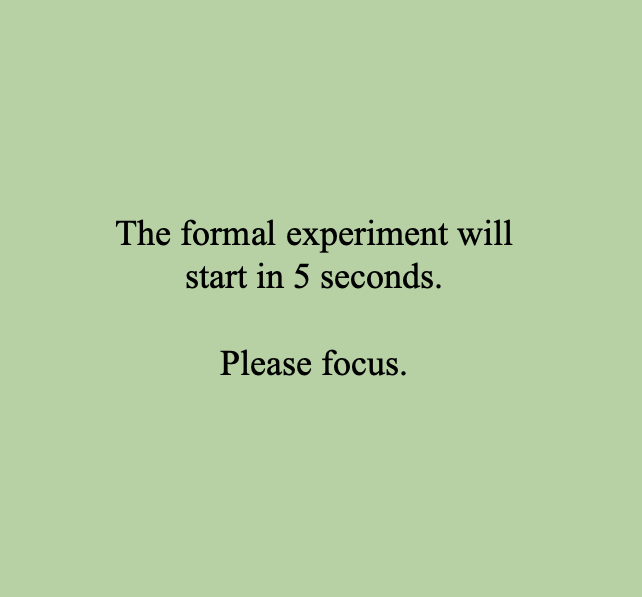
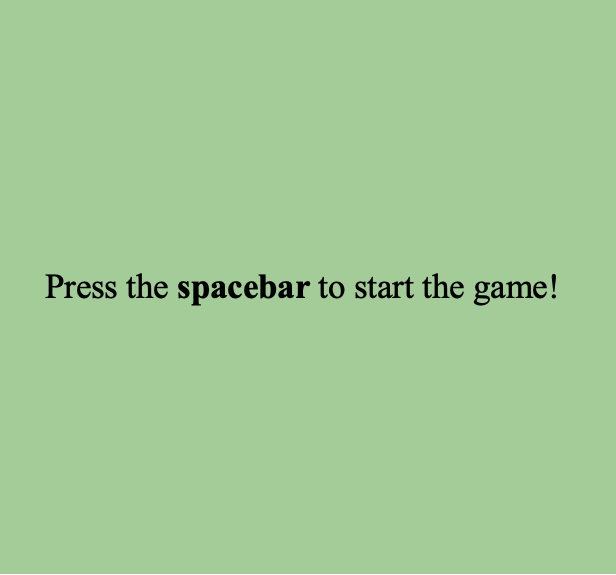
update data record;

Changed region(s): [[0.0617, 0.3548, 0.9253, 0.5322], [0.3393, 0.5617, 0.6169, 0.6504]]

diff --git a/human-AI/src/Trial.py b/human-AI/src/Trial.py
@@ -78,12 +78,12 @@ class NormalTrial1P2G():
         realPlayerGrid = initialPlayerGrid
 
         pause = True
-        initialTime = time.get_ticks()
         while pause:
+            initialTime = time.get_ticks()
             aimPlayerGrid, aimAction = self.controller(realPlayerGrid)
             reactionTime.append(time.get_ticks() - initialTime)
-            stepCount = stepCount + 1
 
+            stepCount = stepCount + 1
             goal = inferGoal(trajectory[-1], aimPlayerGrid, bean1Grid, bean2Grid)
             noisePlayerGrid, aimAction, ifnoise = self.normalNoise(trajectory[-1], aimAction, trajectory, noiseStep, stepCount)
             realPlayerGrid = self.checkBoundary(noisePlayerGrid)
@@ -94,7 +94,7 @@ class NormalTrial1P2G():
                 pg.image.save(screen, self.saveImageDir + '/' + str(len(filenameList)) + '.png')
 
             goalList.append(goal)
-            trajectory.append(list(realPlayerGrid))
+            trajectory.append(tuple(realPlayerGrid))
             aimActionList.append(aimAction)
 
             pause = checkTerminationOfTrial(bean1Grid, bean2Grid, realPlayerGrid)
@@ -106,12 +106,6 @@ class NormalTrial1P2G():
             filenameList = os.listdir(self.saveImageDir)
             pg.image.save(screen, self.saveImageDir + '/' + str(len(filenameList)) + '.png')
 
-        results["bean1GridX"] = bean1Grid[0]
-        results["bean1GridY"] = bean1Grid[1]
-        results["bean2GridX"] = bean2Grid[0]
-        results["bean2GridY"] = bean2Grid[1]
-        results["playerGridX"] = initialPlayerGrid[0]
-        results["playerGridY"] = initialPlayerGrid[1]
         results["reactionTime"] = str(reactionTime)
         results["trajectory"] = str(trajectory)
         results["aimAction"] = str(aimActionList)
@@ -119,7 +113,7 @@ class NormalTrial1P2G():
         results["goal"] = str(goalList)
         return results
 
-class SpecialTrial():
+class SpecialTrial1P2G():
     def __init__(self, controller, drawNewState, drawText, awayFromTheGoalNoise, checkBoundary, saveImageDir=None):
         self.controller = controller
         self.drawNewState = drawNewState
@@ -150,8 +144,8 @@ class SpecialTrial():
 
         realPlayerGrid = initialPlayerGrid
         pause = True
-        initialTime = time.get_ticks()
         while pause:
+            initialTime = time.get_ticks()
             aimPlayerGrid, aimAction = self.controller(realPlayerGrid)
             reactionTime.append(time.get_ticks() - initialTime)
 
@@ -167,8 +161,7 @@ class SpecialTrial():
             if self.saveImageDir:
                 filenameList = os.listdir(self.saveImageDir)
                 pg.image.save(screen, self.saveImageDir + '/' + str(len(filenameList)) + '.png')
-
-            trajectory.append(list(realPlayerGrid))
+            trajectory.append(tuple(realPlayerGrid))
             aimActionList.append(aimAction)
             goalList.append(goal)
 
@@ -180,12 +173,6 @@ class SpecialTrial():
             pg.image.save(screen, self.saveImageDir + '/' + str(len(filenameList)) + '.png')
 
         pg.event.set_blocked([pg.KEYDOWN, pg.KEYUP])
-        results["bean1GridX"] = bean1Grid[0]
-        results["bean1GridY"] = bean1Grid[1]
-        results["bean2GridX"] = bean2Grid[0]
-        results["bean2GridY"] = bean2Grid[1]
-        results["playerGridX"] = initialPlayerGrid[0]
-        results["playerGridY"] = initialPlayerGrid[1]
         results["reactionTime"] = str(reactionTime)
         results["trajectory"] = str(trajectory)
         results["aimAction"] = str(aimActionList)
@@ -348,14 +335,6 @@ class SpecialTrialHumanAI():
             pause = checkTerminationOfTrial(bean1Grid, bean2Grid, realPlayer1Grid, realPlayer2Grid)
         pg.time.wait(500)
         pg.event.set_blocked([pg.KEYDOWN, pg.KEYUP])
-        results["bean1GridX"] = bean1Grid[0]
-        results["bean1GridY"] = bean1Grid[1]
-        results["bean2GridX"] = bean2Grid[0]
-        results["bean2GridY"] = bean2Grid[1]
-        results["player1GridX"] = initialPlayer1Grid[0]
-        results["player1GridY"] = initialPlayer1Grid[1]
-        results["player2GridX"] = initialPlayer2Grid[0]
-        results["player2GridY"] = initialPlayer2Grid[1]
         results["reactionTime"] = str(reactionTime)
         results["trajectoryPlayer1"] = str(trajectoryPlayer1)
         results["trajectoryPlayer2"] = str(trajectoryPlayer2)
@@ -403,20 +382,14 @@ class PracTrial():
         pause = True
         while pause:
             initialTime = time.get_ticks()
-
             aimPlayer1Grid, aimAction = self.controller(realPlayer1Grid)
             reactionTime.append(time.get_ticks() - initialTime)
 
             aimActionListPlayer1.append(aimAction)
-
             stepCount = stepCount + 1
-
             realPlayer1Grid = self.checkBoundary(aimPlayer1Grid)
-
             self.drawNewState(bean1Grid, realPlayer1Grid)
-
             trajectoryPlayer1.append(list(realPlayer1Grid))
-
             pause = checkTerminationOfPracTrial(bean1Grid, realPlayer1Grid)
 
         pg.time.wait(500)
@@ -433,12 +406,13 @@ class PracTrial():
 
 
 class PracTrialFreePlay():
-    def __init__(self, normalNoise, controller, drawNewState, drawText, checkBoundary):
+    def __init__(self, normalNoise, controller, drawNewState, drawText, checkBoundary, playTime):
         self.normalNoise = normalNoise
         self.controller = controller
         self.drawNewState = drawNewState
         self.drawText = drawText
         self.checkBoundary = checkBoundary
+        self.playTime = playTime
 
 
     def __call__(self, player1Grid, bean1Grid):
@@ -450,19 +424,16 @@ class PracTrialFreePlay():
         aimActionListPlayer1 = list()
         trajectoryPlayer1 = [initialPlayer1Grid]
 
-        self.drawText("+", [0, 0, 0], [7, 7])
-        pg.time.wait(1300)
+        # self.drawText("+", [0, 0, 0], [7, 7])
+        # pg.time.wait(1300)
         self.drawNewState([], initialPlayer1Grid)
         pg.event.set_allowed([pg.KEYDOWN, pg.KEYUP, pg.QUIT])
 
         realPlayerGrid = initialPlayer1Grid
         trajectory = []
 
-        noiseSteps = [random.randint(i-10, i-1) for i in range(10, 201, 10)]
-        print(noiseSteps)
-
         initialTime = time.get_ticks()
-        while time.get_ticks() - initialTime < 30000:
+        while time.get_ticks() - initialTime < self.playTime:
 
             aimPlayer1Grid, aimAction = self.controller(realPlayerGrid)
             noisePlayerGrid, aimAction, ifnoise = self.normalNoise(realPlayerGrid, aimAction, trajectory, noiseSteps, stepCount)
@@ -473,7 +444,6 @@ class PracTrialFreePlay():
             aimActionListPlayer1.append(aimAction)
             stepCount = stepCount + 1
             self.drawNewState([], realPlayerGrid)
-
 
         pg.time.wait(500)
         pg.event.set_blocked([pg.KEYDOWN, pg.KEYUP])

diff --git a/human-AI/exec/3-runExpWithBumps.py b/human-AI/exec/3-runExpWithBumps.py
@@ -9,19 +9,19 @@ from itertools import permutations
 import sys
 sys.path.append(os.path.join(os.path.join(os.path.dirname(__file__), '..')))
 
-from src.Visualization import DrawBackground, DrawNewState1P2G, DrawImage, DrawText
+from src.Visualization import DrawBackground, DrawNewState1P2G, DrawImage, DrawText,DrawLinkImage
 from src.Controller import SingleController, NormalNoise, AwayFromTheGoalNoise, CheckBoundary
 from src.UpdateWorld import *
 from src.Writer import WriteDataFrameToCSV
-from src.Trial import NormalTrial1P2G, SpecialTrial
+from src.Trial import NormalTrial1P2G, SpecialTrial1P2G
 from src.Experiment import ExperimentBumps
 
 
 def main():
     gridSize = 15
 
-    picturePath = os.path.abspath(os.path.join(os.getcwd(), os.pardir)) + '/Pictures/'
-    resultsPath = os.path.abspath(os.path.join(os.getcwd(), os.pardir)) + '/Results/'
+    picturePath = os.path.abspath(os.path.join(os.getcwd(), os.pardir)) + '/pictures/'
+    resultsPath = os.path.abspath(os.path.join(os.getcwd(), os.pardir)) + '/results/'
 
     bottom = [4, 6, 8]
     height = [6, 7, 8]
@@ -34,23 +34,24 @@ def main():
     updateWorld = UpdateWorld1P2G(direction, gridSize)
 
     pg.init()
-    screenWidth = 600
-    screenHeight = 600
+    screenWidth = 800
+    screenHeight = 800
     screen = pg.display.set_mode((screenWidth, screenHeight))
-    leaveEdgeSpace = 2
-    lineWidth = 1
+    leaveEdgeSpace = int(1/300 * screenWidth)
+    lineWidth = int(1/600 * screenWidth)
     backgroundColor = [255, 255, 255]
     lineColor = [0, 0, 0]
     targetColor = [255, 50, 50]
     playerColor = [50, 50, 255]
-    targetRadius = 10
-    playerRadius = 10
+    targetRadius = int(1/60 * screenWidth)
+    playerRadius = int(1/60 * screenWidth)
     textColorTuple = (255, 50, 50)
     textSize = int(1/14 * screenWidth)
 
     experimentValues = co.OrderedDict()
     experimentValues["name"] = 'test'
-    writerPath = resultsPath + "Bumps" + experimentValues["name"] + '.csv'
+
+    writerPath = resultsPath + "Solo-Bumps-" + experimentValues["name"] + '.csv'
     writer = WriteDataFrameToCSV(writerPath)
     introductionImage = pg.image.load(picturePath + 'introduction.png')
     finishImage = pg.image.load(picturePath + 'finish.png')
@@ -58,25 +59,27 @@ def main():
     readyImage = pg.image.load(picturePath + 'ready.png')
 
     introductionImage = pg.transform.scale(introductionImage, (screenWidth, screenHeight))
-    readyImage = pg.transform.scale(readyImage, (screenWidth, screenHeight))
-    finishImage = pg.transform.scale(finishImage, (screenWidth, screenHeight))
+    # readyImage = pg.transform.scale(readyImage, (screenWidth, screenHeight))
+    # finishImage = pg.transform.scale(finishImage, (screenWidth, screenHeight))
     drawBackground = DrawBackground(screen, gridSize, leaveEdgeSpace, backgroundColor, lineColor, lineWidth, textColorTuple)
     drawText = DrawText(screen, drawBackground, textSize)
     drawNewState = DrawNewState1P2G(screen, drawBackground, targetColor, playerColor, targetRadius, playerRadius)
     drawImage = DrawImage(screen)
+    drawLinkImage = DrawLinkImage(screen)
 
     actionSpace = [(0, -1), (0, 1), (-1, 0), (1, 0)]
     keyBoradActionDict = {pg.K_UP: (0, -1), pg.K_DOWN: (0, 1), pg.K_LEFT: (-1, 0), pg.K_RIGHT: (1, 0)}
-
     humanController = SingleController(keyBoradActionDict)
     checkBoundary = CheckBoundary([0, gridSize - 1], [0, gridSize - 1])
     controller = humanController
     normalNoise = NormalNoise(controller)
     awayFromTheGoalNoise = AwayFromTheGoalNoise(controller)
     normalTrial = NormalTrial1P2G(controller, drawNewState, drawText, normalNoise, checkBoundary)
-    specialTrial = SpecialTrial(controller, drawNewState, drawText, awayFromTheGoalNoise, checkBoundary)
+    specialTrial = SpecialTrial1P2G(controller, drawNewState, drawText, awayFromTheGoalNoise, checkBoundary)
     experiment = ExperimentBumps(normalTrial, specialTrial, writer, experimentValues, updateWorld, drawImage, resultsPath)
     # drawImage(introductionImage)
+
+    drawImage(readyImage)
     experiment(noiseDesignValues, shapeDesignValues)
     drawImage(finishImage)
 

diff --git a/human-AI/exec/0-runPrac-freePlay30s.py b/human-AI/exec/0-runPrac-freePlay30s.py
@@ -19,6 +19,7 @@ from machinePolicy.valueIteration import RunVI
 
 def main():
     gridSize = 15
+    playTime = 30000
 
     bottom = [4, 6, 8]
     height = [5, 6, 7]
@@ -59,7 +60,7 @@ def main():
     picturePath = os.path.abspath(os.path.join(os.getcwd(), os.pardir)) + '/pictures/'
     resultsPath = os.path.abspath(os.path.join(os.getcwd(), os.pardir)) + '/results/'
 
-    writerPath = resultsPath + "Prac0"+ experimentValues["name"] + '.csv'
+    writerPath = resultsPath + "Prac-0-"+ experimentValues["name"] + '.csv'
     writer = WriteDataFrameToCSV(writerPath)
     introductionImage = pg.image.load(picturePath + 'introduction.png')
     finishImage = pg.image.load(picturePath + 'finish.png')
@@ -67,8 +68,8 @@ def main():
     readyImage = pg.image.load(picturePath + 'ready.png')
 
     introductionImage = pg.transform.scale(introductionImage, (screenWidth, screenHeight))
-    readyImage = pg.transform.scale(readyImage, (screenWidth, screenHeight))
-    finishImage = pg.transform.scale(finishImage, (screenWidth, screenHeight))
+    # readyImage = pg.transform.scale(readyImage, (screenWidth, screenHeight))
+    # finishImage = pg.transform.scale(finishImage, (screenWidth, screenHeight))
     drawBackground = DrawBackground(screen, gridSize, leaveEdgeSpace, backgroundColor, lineColor, lineWidth, textColorTuple)
     drawText = DrawText(screen, drawBackground, textSize)
     drawNewState = DrawNewState1P1G(screen, drawBackground, targetColor, playerColor, targetRadius, playerRadius)
@@ -82,11 +83,12 @@ def main():
     checkBoundary = CheckBoundary([0, gridSize - 1], [0, gridSize - 1])
     normalNoise = NormalNoise(controller)
 
-    pracTrial = PracTrialFreePlay(normalNoise, controller, drawNewState, drawText, checkBoundary)
+    pracTrial = PracTrialFreePlay(normalNoise, controller, drawNewState, drawText, checkBoundary, playTime)
     experiment = PracExperiment1P1G(pracTrial, writer, experimentValues, updateWorld, drawImage, resultsPath)
 
 # start
     # drawImage(introductionImage)
+    drawImage(readyImage)
     experiment(expDesignValues)
     drawImage(finishImage)
 

diff --git a/human-AI/exec/2-runPrac-OnePlayerTwoTargets-NoBumps.py b/human-AI/exec/2-runPrac-OnePlayerTwoTargets-NoBumps.py
@@ -57,7 +57,7 @@ def main():
 
     experimentValues = co.OrderedDict()
     experimentValues["name"] = 'test'
-    writerPath = resultsPath + "Prac2"+ experimentValues["name"] + '.csv'
+    writerPath = resultsPath + "Prac-2-"+ experimentValues["name"] + '.csv'
     writer = WriteDataFrameToCSV(writerPath)
     introductionImage = pg.image.load(picturePath + 'introduction.png')
     finishImage = pg.image.load(picturePath + 'finish.png')
@@ -65,8 +65,8 @@ def main():
     readyImage = pg.image.load(picturePath + 'ready.png')
 
     introductionImage = pg.transform.scale(introductionImage, (screenWidth, screenHeight))
-    readyImage = pg.transform.scale(readyImage, (screenWidth, screenHeight))
-    finishImage = pg.transform.scale(finishImage, (screenWidth, screenHeight))
+    # readyImage = pg.transform.scale(readyImage, (screenWidth, screenHeight))
+    # finishImage = pg.transform.scale(finishImage, (screenWidth, screenHeight))
     drawBackground = DrawBackground(screen, gridSize, leaveEdgeSpace, backgroundColor, lineColor, lineWidth, textColorTuple)
     drawText = DrawText(screen, drawBackground, textSize)
     drawNewState = DrawNewState1P2G(screen, drawBackground, targetColor, playerColor, targetRadius, playerRadius)
@@ -84,6 +84,7 @@ def main():
     specialTrial = SpecialTrial(controller, drawNewState, drawText, awayFromTheGoalNoise, checkBoundary)
     experiment = ExperimentBumps(normalTrial, specialTrial, writer, experimentValues, updateWorld, drawImage, resultsPath)
     # drawImage(introductionImage)
+    drawImage(readyImage)
     experiment(noiseDesignValues, shapeDesignValues)
     drawImage(finishImage)
 

diff --git a/human-AI/exec/4-runExpJointNoBumps.py b/human-AI/exec/4-runExpJointNoBumps.py
@@ -69,7 +69,7 @@ def main():
     picturePath = os.path.abspath(os.path.join(os.getcwd(), os.pardir)) + '/pictures/'
     resultsPath = os.path.abspath(os.path.join(os.getcwd(), os.pardir)) + '/results/'
 
-    writerPath = resultsPath + "Joint-HumanAI" + experimentValues["name"] + '.csv'
+    writerPath = resultsPath + "Joint-HumanAI-" + experimentValues["name"] + '.csv'
     writer = WriteDataFrameToCSV(writerPath)
     introductionImage = pg.image.load(picturePath + 'introduction.png')
     finishImage = pg.image.load(picturePath + 'finish.png')
@@ -77,8 +77,8 @@ def main():
     readyImage = pg.image.load(picturePath + 'ready.png')
 
     introductionImage = pg.transform.scale(introductionImage, (screenWidth, screenHeight))
-    readyImage = pg.transform.scale(readyImage, (screenWidth, screenHeight))
-    finishImage = pg.transform.scale(finishImage, (screenWidth, screenHeight))
+    # readyImage = pg.transform.scale(readyImage, (screenWidth, screenHeight))
+    # finishImage = pg.transform.scale(finishImage, (screenWidth, screenHeight))
     drawBackground = DrawBackground(screen, gridSize, leaveEdgeSpace, backgroundColor, lineColor, lineWidth, textColorTuple)
     drawText = DrawText(screen, drawBackground, textSize)
     drawNewState = DrawNewState2P2G(screen, drawBackground, targetColor, playerColor, player2Color, targetRadius, playerRadius, windImage)
@@ -105,6 +105,7 @@ def main():
     # drawImage(introductionImage) # need to
     # drawLinkImage(readyImage, 2000) # 5000
 
+    drawImage(readyImage)
     experiment(noiseDesignValuesPlayer1, noiseDesignValuesPlayer2, shapeDesignValues)
     drawImage(finishImage)
 

diff --git a/human-AI/exec/1-runPrac-OnePlayerOneTarget-NoBumps.py b/human-AI/exec/1-runPrac-OnePlayerOneTarget-NoBumps.py
@@ -59,7 +59,7 @@ def main():
     picturePath = os.path.abspath(os.path.join(os.getcwd(), os.pardir)) + '/pictures/'
     resultsPath = os.path.abspath(os.path.join(os.getcwd(), os.pardir)) + '/results/'
 
-    writerPath = resultsPath + "Prac1"+ experimentValues["name"] + '.csv'
+    writerPath = resultsPath + "Prac-1-"+ experimentValues["name"] + '.csv'
     writer = WriteDataFrameToCSV(writerPath)
     introductionImage = pg.image.load(picturePath + 'introduction.png')
     finishImage = pg.image.load(picturePath + 'finish.png')
@@ -67,8 +67,8 @@ def main():
     readyImage = pg.image.load(picturePath + 'ready.png')
 
     introductionImage = pg.transform.scale(introductionImage, (screenWidth, screenHeight))
-    readyImage = pg.transform.scale(readyImage, (screenWidth, screenHeight))
-    finishImage = pg.transform.scale(finishImage, (screenWidth, screenHeight))
+    # readyImage = pg.transform.scale(readyImage, (screenWidth, screenHeight))
+    # finishImage = pg.transform.scale(finishImage, (screenWidth, screenHeight))
     drawBackground = DrawBackground(screen, gridSize, leaveEdgeSpace, backgroundColor, lineColor, lineWidth, textColorTuple)
     drawText = DrawText(screen, drawBackground, textSize)
     drawNewState = DrawNewState1P1G(screen, drawBackground, targetColor, playerColor, targetRadius, playerRadius)
@@ -85,6 +85,7 @@ def main():
 
 # start
     # drawImage(introductionImage)
+    drawImage(readyImage)
     experiment(expDesignValues)
     drawImage(finishImage)
 

diff --git a/human-AI/src/Experiment.py b/human-AI/src/Experiment.py
@@ -66,14 +66,13 @@ class ExperimentBumps():
             results["noiseNumber"] = noiseDesignValues[trialIndex]
 
             if isinstance(noiseDesignValues[trialIndex], int):
-                results = self.normalTrial(bean1Grid, bean2Grid, playerGrid, noiseDesignValues[trialIndex])
+                trialData = self.normalTrial(bean1Grid, bean2Grid, playerGrid, noiseDesignValues[trialIndex])
             else:
-                results = self.specialTrial(bean1Grid, bean2Grid, playerGrid, noiseDesignValues[trialIndex])
+                trialData = self.specialTrial(bean1Grid, bean2Grid, playerGrid, noiseDesignValues[trialIndex])
 
-            response = self.experimentValues.copy()
-            response.update(results)
-            responseDF = pd.DataFrame(response, index=[trialIndex])
-            self.writer(responseDF)
+            results.update(trialData)
+            resultsDF = pd.DataFrame(results, index=[trialIndex])
+            self.writer(resultsDF)
 
 class PracExperiment1P1G():
     def __init__(self, pracTrial, writer, experimentValues, updateWorld, drawImage, resultsPath):
